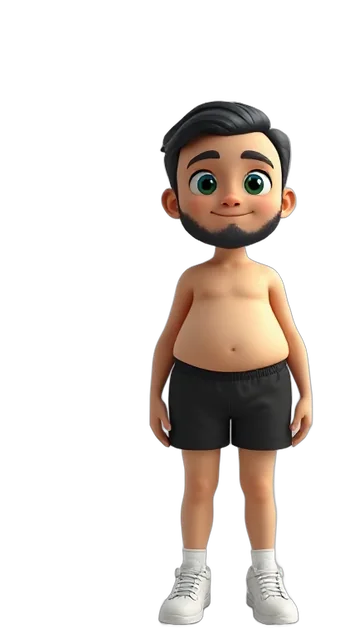
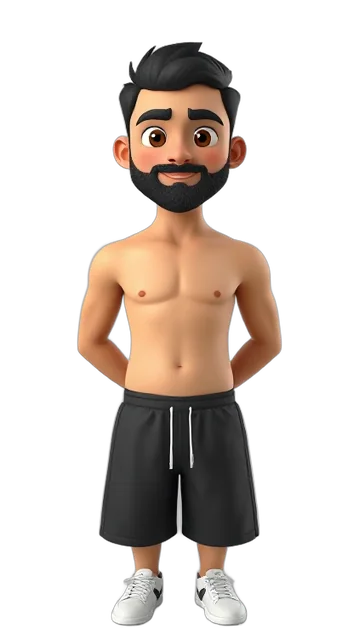
R36: better male level-4 body render; checkpoint
Claude-Session: https://claude.ai/code/session_01TDToodQbPJg86keHcVnDSc

diff --git a/docs/checkpoint/CHECKPOINT.md b/docs/checkpoint/CHECKPOINT.md
@@ -392,8 +392,8 @@ Status: building.
   domain/PlanProfile.kt (extras store, prediction, BMI, summary); ui/onboarding/OnboardingPages.kt (Goal, Tried, MuscleGoal, Focus, Height ruler,
   BmiCard, BodyShape morph, Prediction); ui/plan/PlanSummary.kt (PlanSummaryCards); onboarding flow list (steps 16–21 new), redo via
   Overlay.RedoOnboarding (prefill), Settings "Redo setup", Report tab "Your plan" section; OnboardingVersion 5 catch-up [16,18,19].
-- Body art: workflow bodyart.yml (branch bodyart-run → bodyart-assets). TODO: pick best seed per gender → copy to
-  app/src/main/assets/onboarding/body/{m,f}_bf1..6.webp + {m,f}_side.webp.
+- Body art DONE: assets/onboarding/body (men = seed 2, level 4 = m_bf4_s4 re-render; women = seed 1). OnboardingShotTest renders pages to ui-shots.
+- Focus anchors moved onto body; pace chips compact. Next: PR.
 - DONE (commit 1): domain/DayPlan.kt (rules engine, stats batch, score, JSON history filesDir/dayplans.json, story once/day prefs, AI tip),
   ui/plan/PlanUi.kt (PlanStrip in large RINGS card, PlanTile small half, DailyHubScreen Today/Report/History = Overlay.DayPlan(tab),
   PlanStory + PlanStoryHost in MyFitRoot, DailyReportTile in Me, MorningPlanToggle in Settings→Notifications),
@@ -468,5 +468,5 @@ Status: building.
   domain/PlanProfile.kt (extras store, prediction, BMI, summary); ui/onboarding/OnboardingPages.kt (Goal, Tried, MuscleGoal, Focus, Height ruler,
   BmiCard, BodyShape morph, Prediction); ui/plan/PlanSummary.kt (PlanSummaryCards); onboarding flow list (steps 16–21 new), redo via
   Overlay.RedoOnboarding (prefill), Settings "Redo setup", Report tab "Your plan" section; OnboardingVersion 5 catch-up [16,18,19].
-- Body art: workflow bodyart.yml (branch bodyart-run → bodyart-assets). TODO: pick best seed per gender → copy to
-  app/src/main/assets/onboarding/body/{m,f}_bf1..6.webp + {m,f}_side.webp.
+- Body art DONE: assets/onboarding/body (men = seed 2, level 4 = m_bf4_s4 re-render; women = seed 1). OnboardingShotTest renders pages to ui-shots.
+- Focus anchors moved onto body; pace chips compact. Next: PR.
